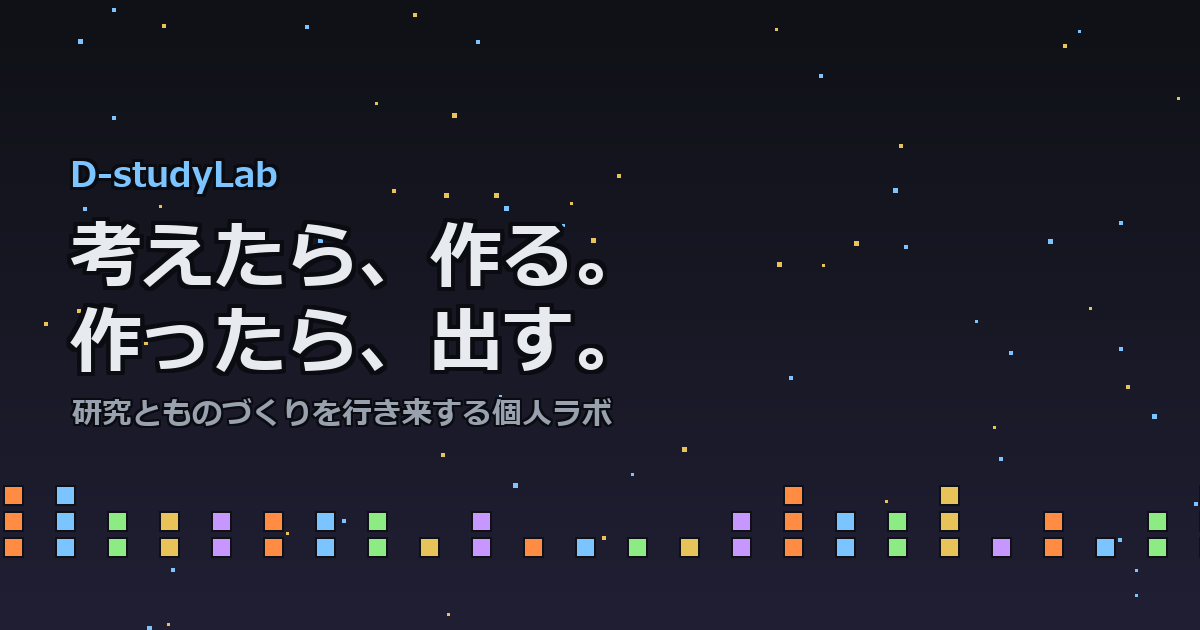
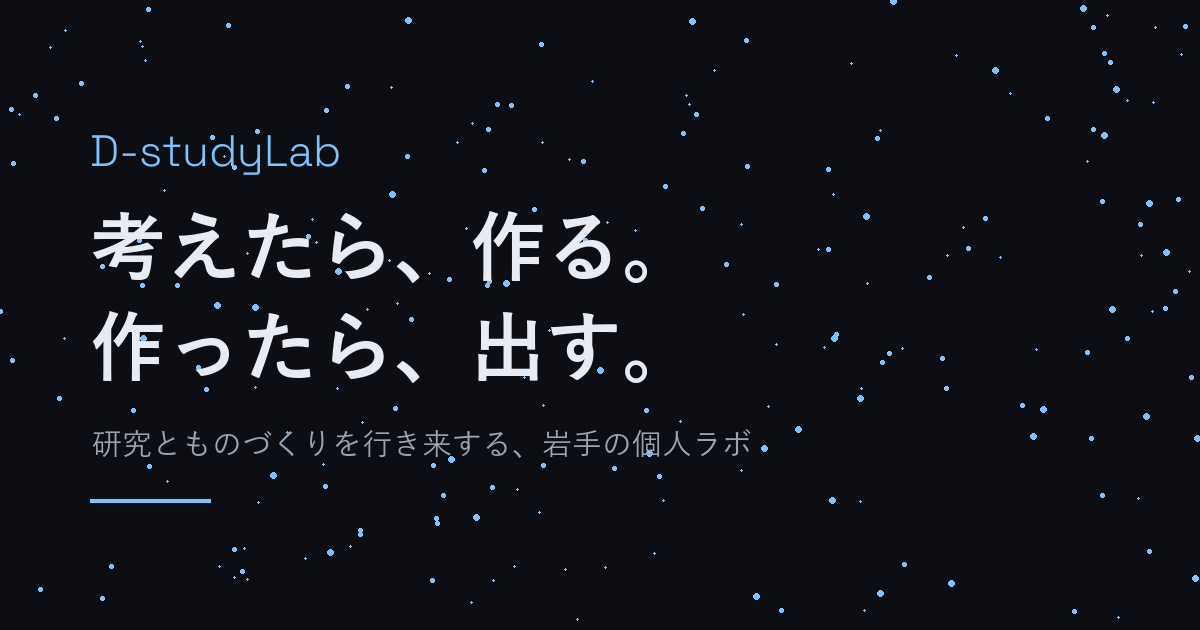
v2 S8: OGP4枚を各世界観で再生成＋blog metaにog:image追加
- /og.png=点群粒子＋タイポ(Space Grotesk) /games/og.png=ドット絵タイトル(DotGothic16)＋8bit枠
- /blog/og.png=紙質感＋明朝(BIZ-UDMincho) /web/og.png=白地ビジネス調(游ゴシック)
- blog(index/記事2本)にog:image・og:url・twitter:card追加（従来ルートog共用を各専用に解消）
- sitemap lastmodは全URL既に2026-07-22で最新のため変更なし
- 4画像ともローカル200・有効PNG

diff --git a/blog/index.html b/blog/index.html
@@ -6,6 +6,12 @@
 <title>ブログ｜D-studyLab</title>
 <meta name="description" content="D-studyLab のブログ。岩手の地酒レビューと、AIと1日1ゲーム作る開発環境の紹介。">
 <meta name="robots" content="index,follow">
+<meta property="og:title" content="ブログ｜D-studyLab">
+<meta property="og:description" content="岩手の地酒レビューと、AIと1日1ゲーム作る開発環境の話。">
+<meta property="og:type" content="website">
+<meta property="og:url" content="https://d-studylab.com/blog/">
+<meta property="og:image" content="https://d-studylab.com/blog/og.png">
+<meta name="twitter:card" content="summary_large_image">
 <style>
   :root { --bg:#efe8d8; --panel:#fbf7ec; --line:#d8ccb4; --txt:#2c2620; --sub:#6b6250;
           --acc:#8a5320; --good:#3f7a4a; --bad:#b04a2f; --gold:#8a6410; }

diff --git a/blog/dev-setup.html b/blog/dev-setup.html
@@ -9,6 +9,9 @@
 <meta property="og:title" content="AIと1日1ゲーム作る開発環境——実際に使っている道具を全部書く">
 <meta property="og:description" content="派手なツールは使っていません。11本を作った実運用の最小構成を正直に公開します。">
 <meta property="og:type" content="article">
+<meta property="og:url" content="https://d-studylab.com/blog/dev-setup.html">
+<meta property="og:image" content="https://d-studylab.com/blog/og.png">
+<meta name="twitter:card" content="summary_large_image">
 <style>
   :root { --bg:#efe8d8; --panel:#fbf7ec; --line:#d8ccb4; --txt:#2c2620; --sub:#6b6250;
           --acc:#8a5320; --good:#3f7a4a; --bad:#b04a2f; --gold:#8a6410; }

diff --git a/blog/kikunotsukasa.html b/blog/kikunotsukasa.html
@@ -9,6 +9,9 @@
 <meta property="og:title" content="菊の司——岩手最古級の酒蔵、250年目の引っ越し">
 <meta property="og:description" content="250年続いた盛岡の蔵が、いま雫石の新天地で新章を書き始めている。岩手最古の蔵の、いちばん新しい酒。">
 <meta property="og:type" content="article">
+<meta property="og:url" content="https://d-studylab.com/blog/kikunotsukasa.html">
+<meta property="og:image" content="https://d-studylab.com/blog/og.png">
+<meta name="twitter:card" content="summary_large_image">
 <style>
   :root { --bg:#efe8d8; --panel:#fbf7ec; --line:#d8ccb4; --txt:#2c2620; --sub:#6b6250;
           --acc:#8a5320; --good:#3f7a4a; --bad:#b04a2f; --gold:#8a6410; }